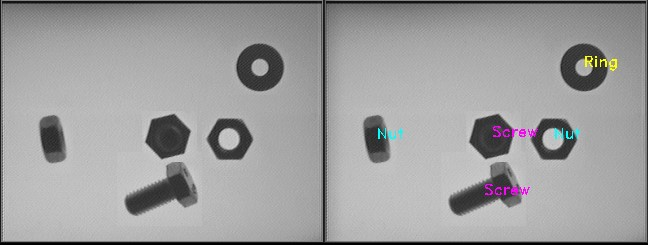
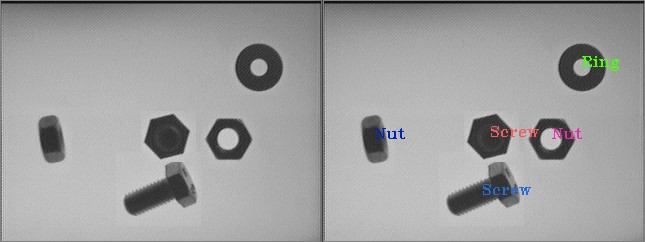
Last Update

diff --git a/codes/Object Classification.cpp b/codes/Object Classification.cpp
@@ -1,24 +1,30 @@
 #include <iostream>
 #include <opencv2/ml.hpp>
 #include <opencv2/core.hpp>
-#include <opencv2/imgproc.hpp>
 #include <opencv2/highgui.hpp>
+#include <opencv2/imgproc.hpp>
 
 using namespace std;
 using namespace cv;
 using namespace cv::ml;
 
+const int MIN_AREA = 500;
+
+const char *WINDOW_NAME_ORIGINAL = "Original";
+const char *WINDOW_NAME_AFTER = "After SVM and AOI";
 const char *pathOfTuerca = "data/nut/tuerca_%04d.pgm";
 const char *pathOfArandela = "data/ring/arandela_%04d.pgm";
 const char *pathOfTornillo = "data/screw/tornillo_%04d.pgm";
 
+Scalar randomColor() {
+	return Scalar(rand() % 255, rand() % 255, rand() % 255);
+}
+
 Mat removeLight(Mat image, Mat pattern) {
 	Mat output, frame32, pattern32;
-
 	// The division method requires a 32-bit float of images.
 	image.convertTo(frame32, CV_32F);
 	pattern.convertTo(pattern32, CV_32F);
-
 	// Formula: output = 255 * 1 - (frame/pattern)
 	output = 1 - (frame32 / pattern32);
 	output.convertTo(output, CV_8U, 255);
@@ -33,25 +39,21 @@ Mat preprocess(Mat image, Mat pattern) {
 	return image;
 }
 
-vector<vector<float>> ExtractFeatures(Mat pre, vector<int> *left = NULL, vector<int> *top = NULL) {
+vector<vector<float>> ExtractFeatures(Mat pre, vector<int> *xOfCenter = NULL, vector<int> *yOfCenter = NULL) {
+	vector<Vec4i> hierarchy;
 	vector<vector<float>> output;
 	vector<vector<Point>> contours;
-	Mat input = pre.clone();
-
-	vector<Vec4i> hierarchy;
 
 	findContours(pre, contours, hierarchy, RETR_CCOMP, CHAIN_APPROX_SIMPLE);
 
-	if(contours.empty()) {
-		return output;
-	}
+	if(contours.empty()) return output;
 
 	for(int i = 0; i < contours.size(); i++) {
 		Mat mask = Mat::zeros(pre.rows, pre.cols, CV_8UC1);
 		drawContours(mask, contours, i, Scalar(1), FILLED, LINE_8, hierarchy, 1);
 
 		float area = sum(mask)[0];
-		if(area > 500) {
+		if(area > MIN_AREA) {
 			RotatedRect rect = minAreaRect(contours[i]);
 			float width = rect.size.width;
 			float height = rect.size.height;
@@ -60,14 +62,13 @@ vector<vector<float>> ExtractFeatures(Mat pre, vector<int> *left = NULL, vector<
 			vector<float> row;
 			row.push_back(area);
 			row.push_back(aspectRatio);
-
 			output.push_back(row);
 
-			if(left != NULL) {
-				left->push_back((int) rect.center.x);
+			if(xOfCenter != NULL) {
+				xOfCenter->push_back((int) rect.center.x);
 			}
-			if(top != NULL) {
-				top->push_back((int) rect.center.y);
+			if(yOfCenter != NULL) {
+				yOfCenter->push_back((int) rect.center.y);
 			}
 		}
 	}
@@ -78,8 +79,7 @@ bool readFolderAndExtractFeatures(const char *folder, Mat pattern, int label, in
 								  vector<float> &trainingData, vector<int> &responsesData,
 								  vector<float> &testData, vector<float> &testResponsesData) {
 	VideoCapture images;
-
-	if(images.open(folder) == false) {
+	if(!images.open(folder)) {
 		cout << "Can not open the folder images" << endl;
 		return false;
 	}
@@ -106,28 +106,29 @@ bool readFolderAndExtractFeatures(const char *folder, Mat pattern, int label, in
 }
 
 Ptr<SVM> trainAndTest(Mat pattern) {
-	vector< float > trainingData;
-	vector< int > responsesData;
-	vector< float > testData;
-	vector< float > testResponsesData;
+	vector<float> trainingData;
+	vector<int> responsesData;
+	vector<float> testData;
+	vector<float> testResponsesData;
 
 	int numberOfTest = 20;
 
-	readFolderAndExtractFeatures(pathOfTuerca, pattern, 0, numberOfTest, trainingData, responsesData, testData, testResponsesData);
-	readFolderAndExtractFeatures(pathOfArandela, pattern, 1, numberOfTest, trainingData, responsesData, testData, testResponsesData);
-	readFolderAndExtractFeatures(pathOfTornillo, pattern, 2, numberOfTest, trainingData, responsesData, testData, testResponsesData);
+	readFolderAndExtractFeatures(pathOfTuerca, pattern, 0, numberOfTest,
+								 trainingData, responsesData, testData, testResponsesData);
+	readFolderAndExtractFeatures(pathOfArandela, pattern, 1, numberOfTest,
+								 trainingData, responsesData, testData, testResponsesData);
+	readFolderAndExtractFeatures(pathOfTornillo, pattern, 2, numberOfTest,
+								 trainingData, responsesData, testData, testResponsesData);
 
-	cout << "\n Num of train samples: " << responsesData.size() << endl;
-	cout << " Num of test samples: " << testResponsesData.size() << endl;
+	cout << endl << format(" Number of train samples: %4zd", responsesData.size());
+	cout << endl << format(" Number of test samples : %4zd", testResponsesData.size());
 
-	Mat trainingDataMat(trainingData.size() / 2, 2, CV_32FC1, &trainingData[0]);
-	Mat responses(responsesData.size(), 1, CV_32SC1, &responsesData[0]);
-
-	Mat testDataMat(testData.size() / 2, 2, CV_32FC1, &testData[0]);
-	Mat testResponses(testResponsesData.size(), 1, CV_32FC1, &testResponsesData[0]);
+	Mat trainingDataMat((int) trainingData.size() / 2, 2, CV_32FC1, &trainingData[0]);
+	Mat responses((int) responsesData.size(), 1, CV_32SC1, &responsesData[0]);
+	Mat testDataMat((int) testData.size() / 2, 2, CV_32FC1, &testData[0]);
+	Mat testResponses((int) testResponsesData.size(), 1, CV_32FC1, &testResponsesData[0]);
 
 	Ptr<TrainData> tdata = TrainData::create(trainingDataMat, ROW_SAMPLE, responses);
-
 	Ptr<SVM> svm = SVM::create();
 	svm->setType(SVM::C_SVC);
 	svm->setNu(0.05);
@@ -141,18 +142,16 @@ Ptr<SVM> trainAndTest(Mat pattern) {
 		// Test the ML Model
 		Mat testPredict;
 		svm->predict(testDataMat, testPredict);
-
 		// Error calculation
 		Mat errorMat = testPredict != testResponses;
-		float error = 100.0f * countNonZero(errorMat) / testResponsesData.size();
-		cout << " Error: " << error << "%" << endl;
+		cout << endl << format(" Error: %.5lf%%", 100.0f * countNonZero(errorMat) / testResponsesData.size());
 	}
 	return svm;
 }
 
 int main(int argc, const char **argv) {
 	if(argc != 3) {
-		cout << "You must enter image and pattern as arguments" << endl;
+		cout << " You must enter image and pattern as arguments" << endl;
 		return EXIT_FAILURE;
 	}
 
@@ -173,26 +172,25 @@ int main(int argc, const char **argv) {
 	Ptr<SVM> svm = trainAndTest(pattern);
 
 	Mat pre = preprocess(image, pattern);
+	vector<int> xOfCenter, yOfCenter;
+	vector<vector<float>> features = ExtractFeatures(pre, &xOfCenter, &yOfCenter);
 
-	vector<int> pos_left, pos_top;
-	vector<vector<float>> features = ExtractFeatures(pre, &pos_left, &pos_top);
-	cout << " Number of objects detected: " << features.size() << endl;
-	imshow("asd", image);
+	cout << endl << format(" Number of objects detected: %zd", features.size());
+	imshow(WINDOW_NAME_ORIGINAL, image);
 	for(int i = 0; i < features.size(); i++) {
 		Mat trainingDataMat(1, 2, CV_32FC1, &features[i][0]);
 		float result = svm->predict(trainingDataMat);
 
-		stringstream ss;
 		if(result == 0) {
-			putText(image, "Nut", Point2d(pos_left[i], pos_top[i]), FONT_HERSHEY_DUPLEX, .5, Scalar(255, 255, 0));
+			putText(image, "Nut", Point2d(xOfCenter[i], yOfCenter[i]), FONT_HERSHEY_TRIPLEX, .5, randomColor());
 		} else if(result == 1) {
-			putText(image, "Ring", Point2d(pos_left[i], pos_top[i]), FONT_HERSHEY_DUPLEX, .5, Scalar(0, 255, 255));
+			putText(image, "Ring", Point2d(xOfCenter[i], yOfCenter[i]), FONT_HERSHEY_TRIPLEX, .5, randomColor());
 		} else if(result == 2) {
-			putText(image, "Screw", Point2d(pos_left[i], pos_top[i]), FONT_HERSHEY_DUPLEX, .5, Scalar(255, 0, 255));
+			putText(image, "Screw", Point2d(xOfCenter[i], yOfCenter[i]), FONT_HERSHEY_TRIPLEX, .5, randomColor());
 		}
 	}
-	namedWindow("Image", WINDOW_FREERATIO);
-	imshow("Image", image);
+	namedWindow(WINDOW_NAME_AFTER, WINDOW_AUTOSIZE);
+	imshow(WINDOW_NAME_AFTER, image);
 	waitKey(0);
 	return EXIT_SUCCESS;
 }
